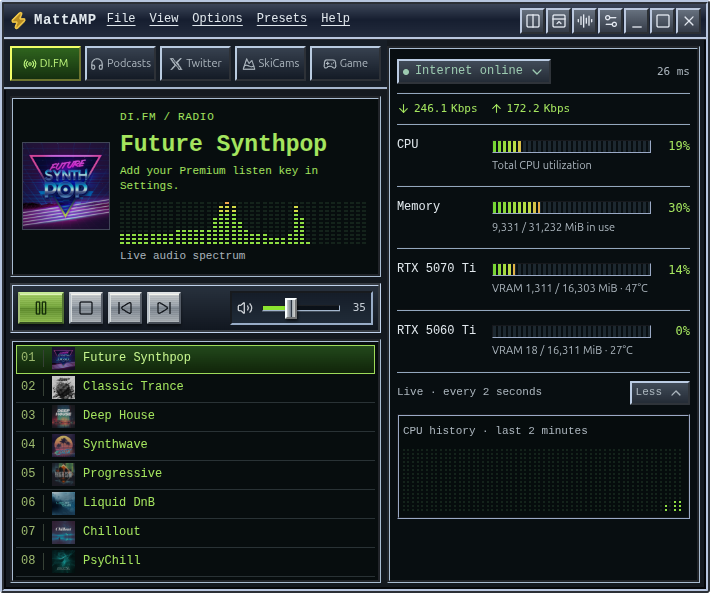
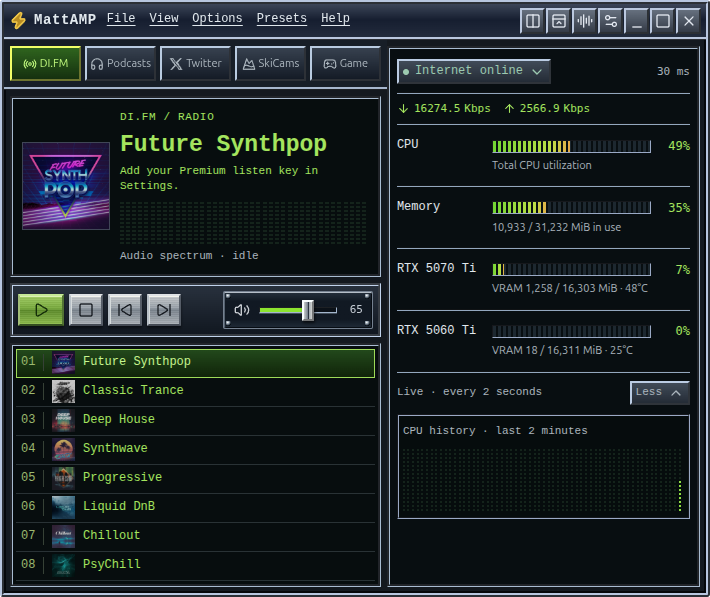
Refine retro volume faceplate with metal corner rivets

diff --git a/src/retro.css b/src/retro.css
@@ -93,11 +93,24 @@
 #deck.retro .transport button:not(#mute):enabled:active{border-color:#48515a #aeb6bd #cbd1d6 #505962;box-shadow:inset 1px 2px 3px #18202b88}
 #deck.retro .transport button#play{min-width:46px;color:#142d08;border-color:#c6e997 #527333 #344d20 #a2bd77;background:repeating-linear-gradient(0deg,#ffffff0a 0 1px,#0000000a 1px 2px),linear-gradient(#a1cc62,#77a93d 46%,#5e8c2c 51%,#8dbb4d);box-shadow:inset 0 1px 0 #dcf1b4,0 2px 3px #0008}
 #deck.retro .transport button#play:enabled:hover{background:linear-gradient(#b2db73,#7da940 50%,#a4c965)}
-#deck.retro .volume-wrap{align-self:stretch;align-items:center;gap:5px;padding:0 5px 0 2px;min-width:0;background:linear-gradient(#151d28,#202b38);border:2px inset #586373}
+#deck.retro .volume-wrap{
+ position:relative;align-self:stretch;align-items:center;gap:5px;padding:3px 9px 3px 7px;min-width:0;
+ background:linear-gradient(#25303c,#111923 26%,#111923 76%,#202b38);
+ border:1px solid #758190;border-radius:2px;
+ box-shadow:inset 0 1px 0 #b5bec8,inset 1px 0 0 #566270,inset 0 -1px 0 #070c12,inset -1px 0 0 #070c12;
+}
+/* Four domed fasteners sit on the faceplate, outside the usable slider area. */
+#deck.retro .volume-wrap::before{
+ content:'';position:absolute;inset:0;pointer-events:none;
+ --rivet:radial-gradient(circle at 35% 28%,#f0f2ed 0 9%,#b7c1cc 18%,#75818d 39%,#414d59 52%,#141c25 65%,#060b10 73%,transparent 78%);
+ background-image:var(--rivet),var(--rivet),var(--rivet),var(--rivet);
+ background-size:5px 5px;background-repeat:no-repeat;
+ background-position:left 2px top 2px,right 2px top 2px,left 2px bottom 2px,right 2px bottom 2px;
+}
 #deck.retro .volume-wrap #mute{border:0;box-shadow:none;background:transparent;color:#c6cbd0;min-width:23px;padding:2px}
 #deck.retro .volume-wrap #mute:enabled:hover{color:#fff}
 #deck.retro #volume{appearance:none;-webkit-appearance:none;width:78px;height:24px;background:transparent;cursor:pointer;flex:1 1 78px;min-width:40px}
 #deck.retro #volume::-webkit-slider-runnable-track{height:6px;border:1px inset #606b79;border-radius:0;background:linear-gradient(to right,#8ce430 0 var(--volume-fill,35%),#0b1118 var(--volume-fill,35%) 100%);box-shadow:0 1px 0 #45505c}
 #deck.retro #volume::-webkit-slider-thumb{appearance:none;-webkit-appearance:none;width:12px;height:21px;margin-top:-8px;border:2px outset #c5c9ca;border-radius:1px;background:linear-gradient(90deg,#c9cdcd,#7a8490 45%,#2a333f 46% 57%,#9aa4ab 58%,#d1d2d0);box-shadow:1px 2px 3px #0009}
 #deck.retro #volume-value{min-width:21px;color:#c4cbd3}
-@media(max-width:380px){#deck.retro .transport{gap:3px}#deck.retro .transport button:not(#mute){min-width:29px;padding:4px}#deck.retro .transport button#play{min-width:35px}#deck.retro .volume-wrap{gap:2px;padding-right:3px}#deck.retro #volume{width:55px}}
+@media(max-width:380px){#deck.retro .transport{gap:3px}#deck.retro .transport button:not(#mute){min-width:29px;padding:4px}#deck.retro .transport button#play{min-width:35px}#deck.retro .volume-wrap{gap:2px;padding-inline:7px}#deck.retro #volume{width:55px}}

diff --git a/README.md b/README.md
@@ -295,7 +295,7 @@ This navigation refresh and the Retro skin below are staged for [MattAMP 1.0.0](
 | Close **×** | Quit MattAMP |
 | **Details** under the meters | Show memory, VRAM, and GPU temperatures |
 
-**Retro mode:** flip **Settings → Retro mode** for dark metal trim, lime-green displays, numbered station rows, brushed-silver transport buttons, a green volume rail with a metal fader, and segmented CPU/memory/GPU meters. The radio spectrum reacts to the actual audio; the lower display shows the last two minutes of CPU samples. Classic menus handle Settings, layout, playback, and station hopping. Help knows where your MP3 collection went.
+**Retro mode:** flip **Settings → Retro mode** for dark metal trim, lime-green displays, numbered station rows, brushed-silver transport buttons, a riveted volume panel with a green rail and metal fader, and segmented CPU/memory/GPU meters. The radio spectrum reacts to the actual audio; the lower display shows the last two minutes of CPU samples. Classic menus handle Settings, layout, playback, and station hopping. Help knows where your MP3 collection went.
 
 Switching it on plays a short, original synthesized modem handshake. It respects volume, mute, and **Silly sound effects**; restoring a saved Retro preference at launch does not replay it. The toggle is saved locally and leaves audio playback and battles intact. Retro temporarily hides the ambient background; switching back restores your chosen effect. The spectrum is radio-only, rests when playback stops, and pauses when hidden or under reduced motion. YouTube and remote podcast audio keep their usual playback path.
 
@@ -304,7 +304,7 @@ Switching it on plays a short, original synthesized modem handshake. It respects
 
 ![Retro MattAMP with beveled controls, numbered station playlist, live audio spectrum, and segmented system meters](docs/images/retro.png)
 
-Preview from an isolated demo profile; the spectrum is driven by test audio.
+Preview from an isolated demo profile.
 
 </details>
 

diff --git a/DESIGN.md b/DESIGN.md
@@ -118,7 +118,7 @@ Use the Retro shell, control and screen radii from the frontmatter. Artwork is s
 
 General metal buttons and selects retain the dark outset bevel; buttons brighten on hover and recess when pressed. Transport keys use brushed aluminum with fine horizontal grain, asymmetric lit edges and dark icons. Play retains the same tactile treatment in green. Keep the separate mute button quiet inside the volume housing. Keyboard focus remains a visible amber outline (2px, offset 2px); menu summaries place the outline inside their bounds.
 
-The volume fader sits in a dark inset housing. Its thin rectangular rail (6px high) fills with the Retro volume-fill color to the current volume value; the remainder stays dark. A narrow rectangular metal thumb uses the frontmatter dimensions and a central dark grip. Preserve native range interaction and the numeric volume display; mute continues to show zero without erasing the saved volume setting. The Settings checkbox is labeled **Retro mode**.
+The volume fader sits in a recessed dark metal faceplate with four small domed silver rivets, one in each corner. The rivets stay outside the slider hit area and never intercept input. Its thin rectangular rail (6px high) fills with the Retro volume-fill color to the current volume value; the remainder stays dark. A narrow rectangular metal thumb uses the frontmatter dimensions and a central dark grip. Preserve native range interaction and the numeric volume display; mute continues to show zero without erasing the saved volume setting. The Settings checkbox is labeled **Retro mode**.
 
 Enabling Retro explicitly plays a short original synthesized modem handshake (6.4 seconds) through the existing tab-sound channel. Respect volume, mute and **Silly sound effects**; cap the cue volume at 65%. Disabling Retro, hiding the app or entering Bug mode stops the cue. Restoring a saved Retro preference at startup does not replay it.
 
